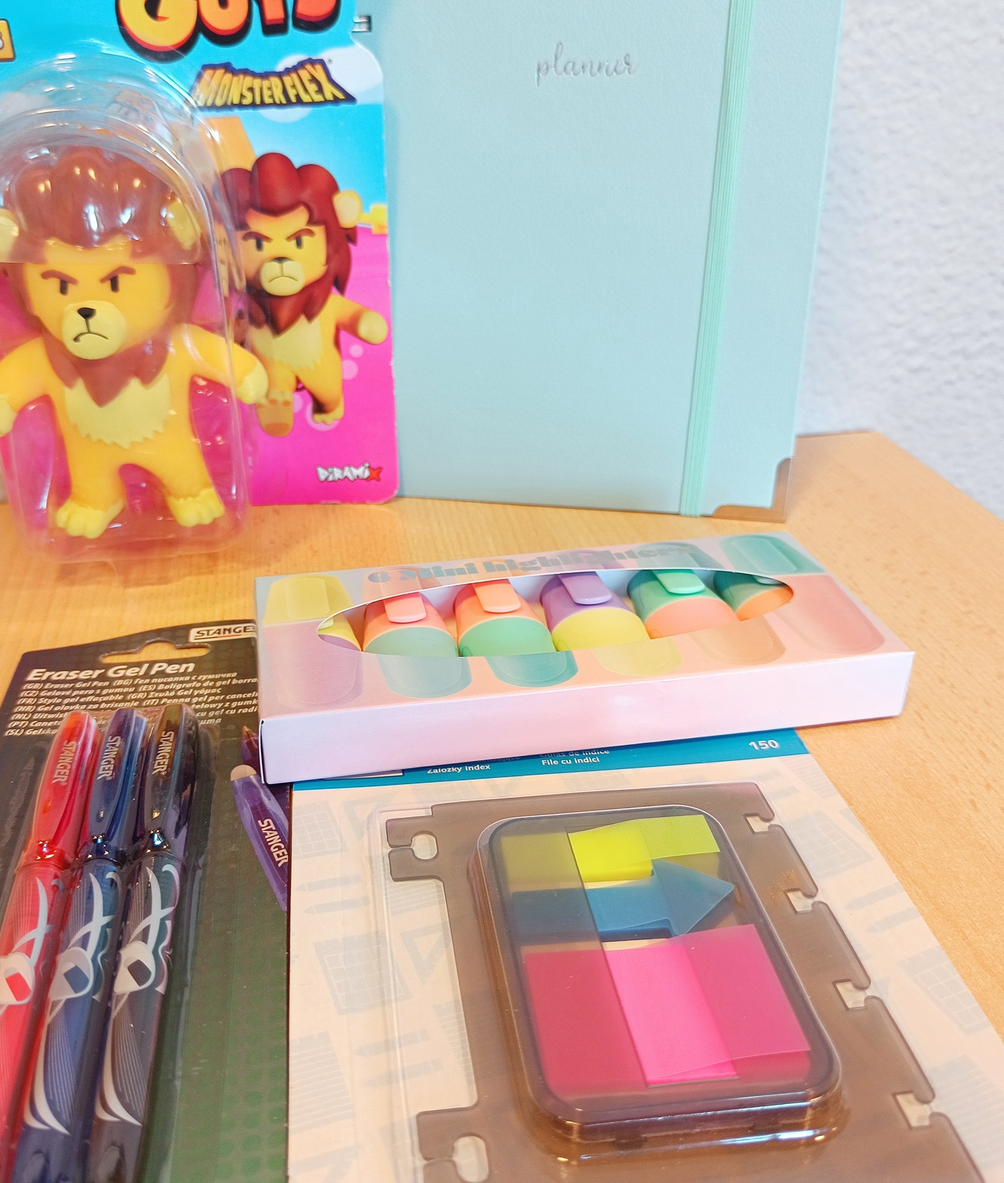
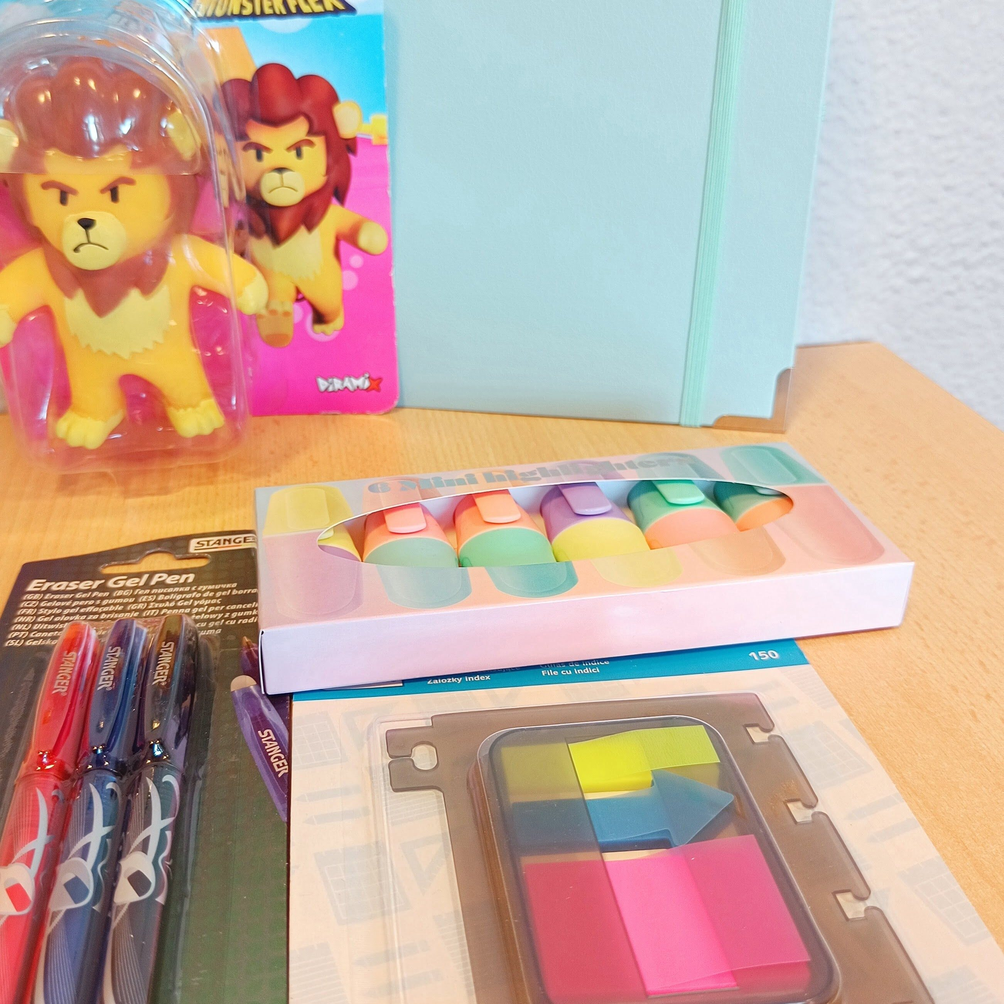
Carroussel + study buddy (1) fix
studdy buddy (1) bijgsneden en caroussels beter gemaakt

diff --git a/Html/ZenZone_Geschenkmanden.html b/Html/ZenZone_Geschenkmanden.html
@@ -78,11 +78,11 @@
                   <div class="card w-75 mb-3 ms-5">
                     <div id="carouselChill&Unwind" class="carousel slide">
                       <div class="carousel-inner">
-                        <div class="carousel-item active" style="height: 50vh">
-                          <img src="../Images/Chill&Unwind(1).jpg" class="d-block w-100 h-100" alt="de chill & unwind items">
+                        <div class="carousel-item active">
+                          <img src="../Images/Chill&Unwind(1).jpg" class="d-block w-100" alt="de chill & unwind items">
                         </div>
                         <div class="carousel-item" style="height: 50vh">
-                          <img src="../Images/Chill&Unwind(2).jpg" class="d-block w-100 h-100" alt="de chill & unwind mand">
+                          <img src="../Images/Chill&Unwind(2).jpg" class="d-block w-100" alt="de chill & unwind mand">
                         </div>
                       </div>
                       <button class="carousel-control-prev" type="button" data-bs-target="#carouselChill&Unwind" data-bs-slide="prev">
@@ -143,17 +143,17 @@
                   <div class="card w-75 mb-3 ms-5">
                     <div id="carouselStuddyBuddy" class="carousel slide">
                       <div class="carousel-inner">
-                        <div class="carousel-item active" style="height: 50vh">
-                            <img src="../Images/StudyBuddy(1).jpg" class="d-block w-100 h-100" alt="afbeelding van één van de mogelijke studdy buddy items">
+                        <div class="carousel-item active">
+                            <img src="../Images/StudyBuddy(1).jpg" class="d-block w-100" alt="afbeelding van één van de mogelijke studdy buddy items">
                         </div>
-                        <div class="carousel-item" style="height: 50vh">
-                          <img src="../Images/StudyBuddy(2).jpg" class="d-block w-100 h-100" alt="afbeelding van één van de mogelijke studdy buddy manden">
+                        <div class="carousel-item">
+                          <img src="../Images/StudyBuddy(2).jpg" class="d-block w-100" alt="afbeelding van één van de mogelijke studdy buddy manden">
                         </div>
-                        <div class="carousel-item" style="height: 50vh">
-                          <img src="../Images/StudyBuddy(3).jpg" class="d-block w-100 h-100" alt="afbeelding  van de andere mogelijke studdy buddy items">
+                        <div class="carousel-item">
+                          <img src="../Images/StudyBuddy(3).jpg" class="d-block w-100" alt="afbeelding  van de andere mogelijke studdy buddy items">
                       </div>
-                      <div class="carousel-item" style="height: 50vh">
-                        <img src="../Images/StudyBuddy(4).jpg" class="d-block w-100 h-100" alt="afbeelding van de andere mogelijke studdy buddy mand">
+                      <div class="carousel-item">
+                        <img src="../Images/StudyBuddy(4).jpg" class="d-block w-100" alt="afbeelding van de andere mogelijke studdy buddy mand">
                       </div>
                       </div>
                       <button class="carousel-control-prev" type="button" data-bs-target="#carouselStuddyBuddy" data-bs-slide="prev">
@@ -256,11 +256,11 @@
                   <div class="card w-75 mb-3 ms-5">
                     <div id="carouselSnackAttack" class="carousel slide">
                       <div class="carousel-inner">
-                        <div class="carousel-item active" style="height: 50vh">
-                            <img src="../Images/SnackAttack(1).jpg" class="d-block w-100 h-100" alt="Afbeelding van de snack attack items">
+                        <div class="carousel-item active">
+                            <img src="../Images/SnackAttack(1).jpg" class="d-block w-100" alt="Afbeelding van de snack attack items">
                         </div>
-                        <div class="carousel-item" style="height: 50vh">
-                          <img src="../Images/SnackAttack(2).jpg" class="d-block w-100 h-100" alt="Afbeelding van de snack attack mand">
+                        <div class="carousel-item">
+                          <img src="../Images/SnackAttack(2).jpg" class="d-block w-100" alt="Afbeelding van de snack attack mand">
                         </div>
                       </div>
                       <button class="carousel-control-prev" type="button" data-bs-target="#carouselSnackAttack" data-bs-slide="prev">
